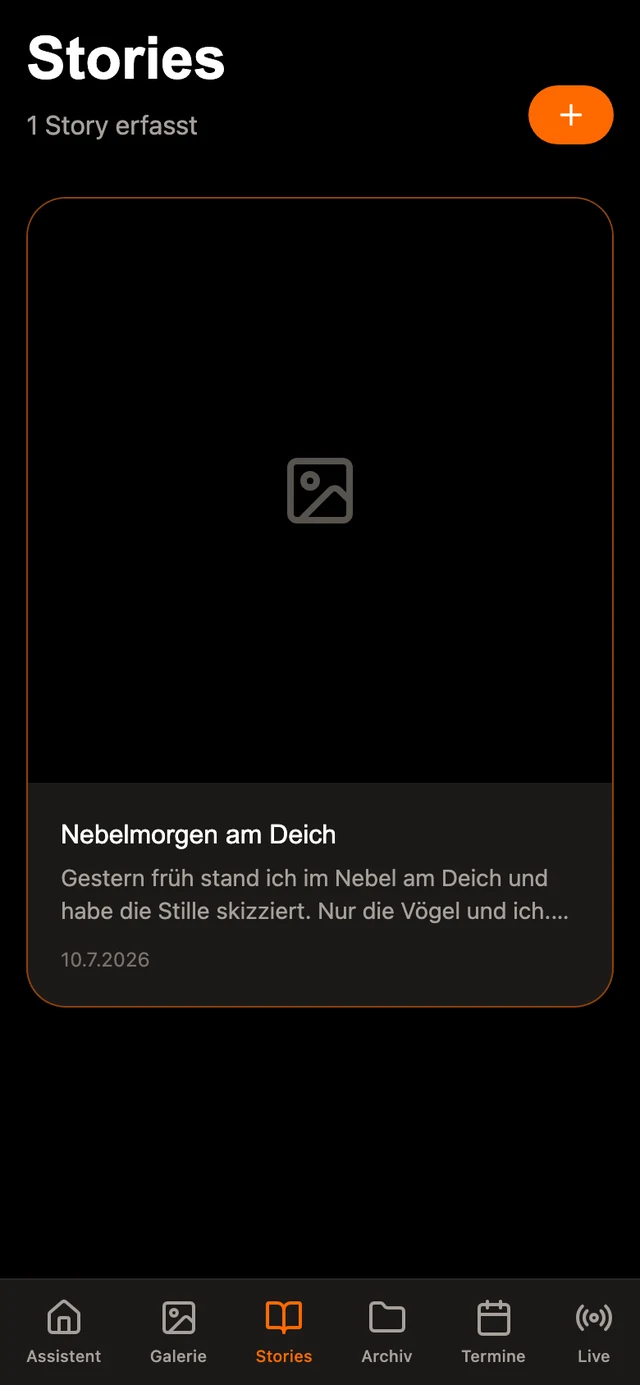
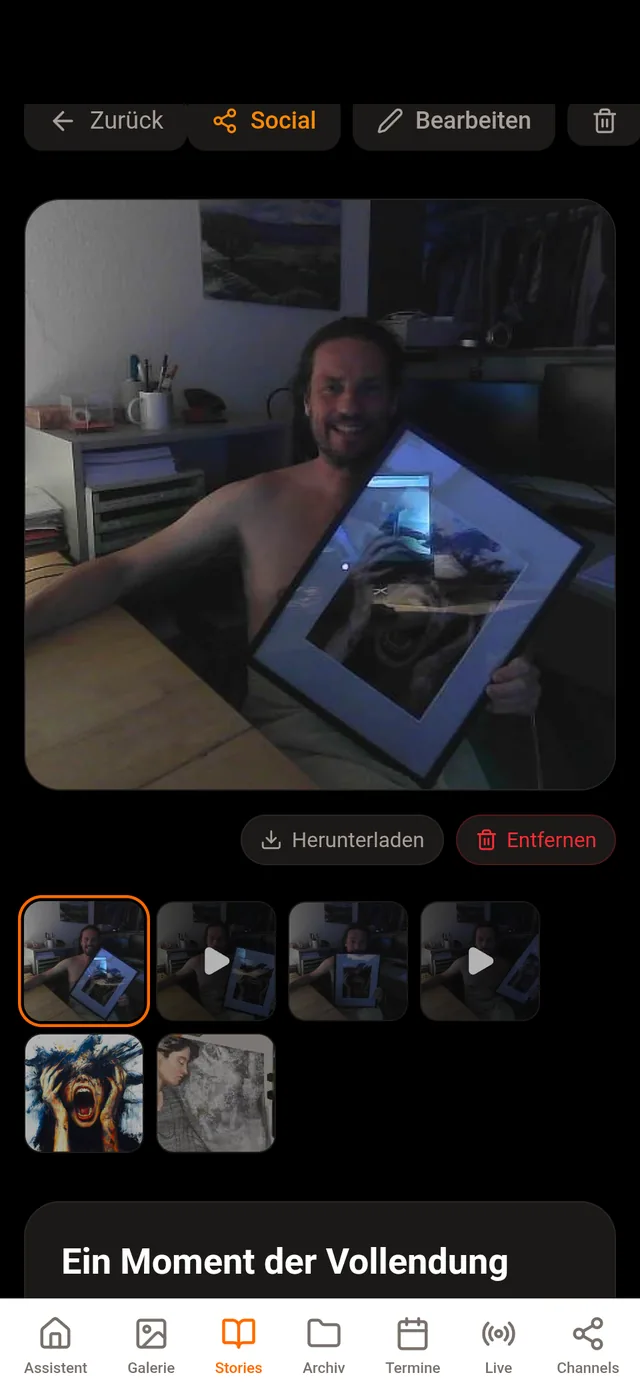
Rundgang: echter Stories-Screenshot statt schwarzem Platzhalter, neue Channels-Karte
Claude-Session: https://claude.ai/code/session_016kHxPrVapVkjfEqdpm64ba

diff --git a/src/utils/translations.js b/src/utils/translations.js
@@ -131,7 +131,8 @@ export const translations = {
             cards: {
                 c1: { title: "Your Gallery", text: "Every work with photo, dimensions and price — searchable, exportable, ready for catalogs." },
                 c2: { title: "Dates & Exhibitions", text: "\"Vernissage on the 15th, 6 pm at the gallery\" — spoken once, filed forever. Even via voice note." },
-                c3: { title: "Stories", text: "The tale behind each piece — captured while it's fresh. Later it becomes your catalog text, your post, your artist statement." }
+                c3: { title: "Stories", text: "The tale behind each piece — captured while it's fresh. Later it becomes your catalog text, your post, your artist statement." },
+                c4: { title: "Channels", text: "Print, web, sales and marketing: trigger it, pick it up, approve it — the studio does the rest." }
             }
         },
         ownership: {
@@ -350,7 +351,8 @@ export const translations = {
             cards: {
                 c1: { title: "Deine Galerie", text: "Jedes Werk mit Foto, Maßen und Preis — durchsuchbar, exportierbar, bereit für Kataloge." },
                 c2: { title: "Termine & Ausstellungen", text: "„Vernissage am 15., 18 Uhr in der Galerie“ — einmal gesagt, für immer notiert. Auch per Sprachnotiz." },
-                c3: { title: "Stories", text: "Die Geschichte hinter jedem Werk — festgehalten, solange sie frisch ist. Später wird daraus dein Katalogtext, dein Post, dein Künstlerstatement." }
+                c3: { title: "Stories", text: "Die Geschichte hinter jedem Werk — festgehalten, solange sie frisch ist. Später wird daraus dein Katalogtext, dein Post, dein Künstlerstatement." },
+                c4: { title: "Channels", text: "Druck, Web, Verkauf und Marketing: auslösen, abholen, freigeben — das Studio erledigt den Rest." }
             }
         },
         ownership: {

diff --git a/src/components/VaultTour.js b/src/components/VaultTour.js
@@ -1,6 +1,6 @@
 import { t } from '../utils/i18n.js';
 
-// Rundgang: drei echte App-Ansichten mit kurzen Erklärungen.
+// Rundgang: vier echte App-Ansichten mit kurzen Erklärungen.
 export function VaultTour() {
   const card = (img, alt, key) => `
     <div class="tour-card">
@@ -19,7 +19,8 @@ export function VaultTour() {
         <div class="grid-3" style="margin-top: 2.5rem; grid-template-columns: repeat(auto-fit, minmax(min(260px, 100%), 1fr)); gap: 2rem;">
           ${card('/screens/gallery.webp', 'Galerie-Ansicht der Vault mit Werken, Jahr und Preis', 'c1')}
           ${card('/screens/appointments.webp', 'Terminübersicht mit Vernissage-Eintrag', 'c2')}
-          ${card('/screens/stories.webp', 'Stories: die Geschichten hinter den Werken', 'c3')}
+          ${card('/screens/stories.webp', 'Story-Ansicht mit Fotos und Videos aus dem Atelier', 'c3')}
+          ${card('/screens/channels.webp', 'Channels-Übersicht: Druck, Web, Verkauf und Marketing direkt aus der Vault', 'c4')}
         </div>
       </div>
     </section>